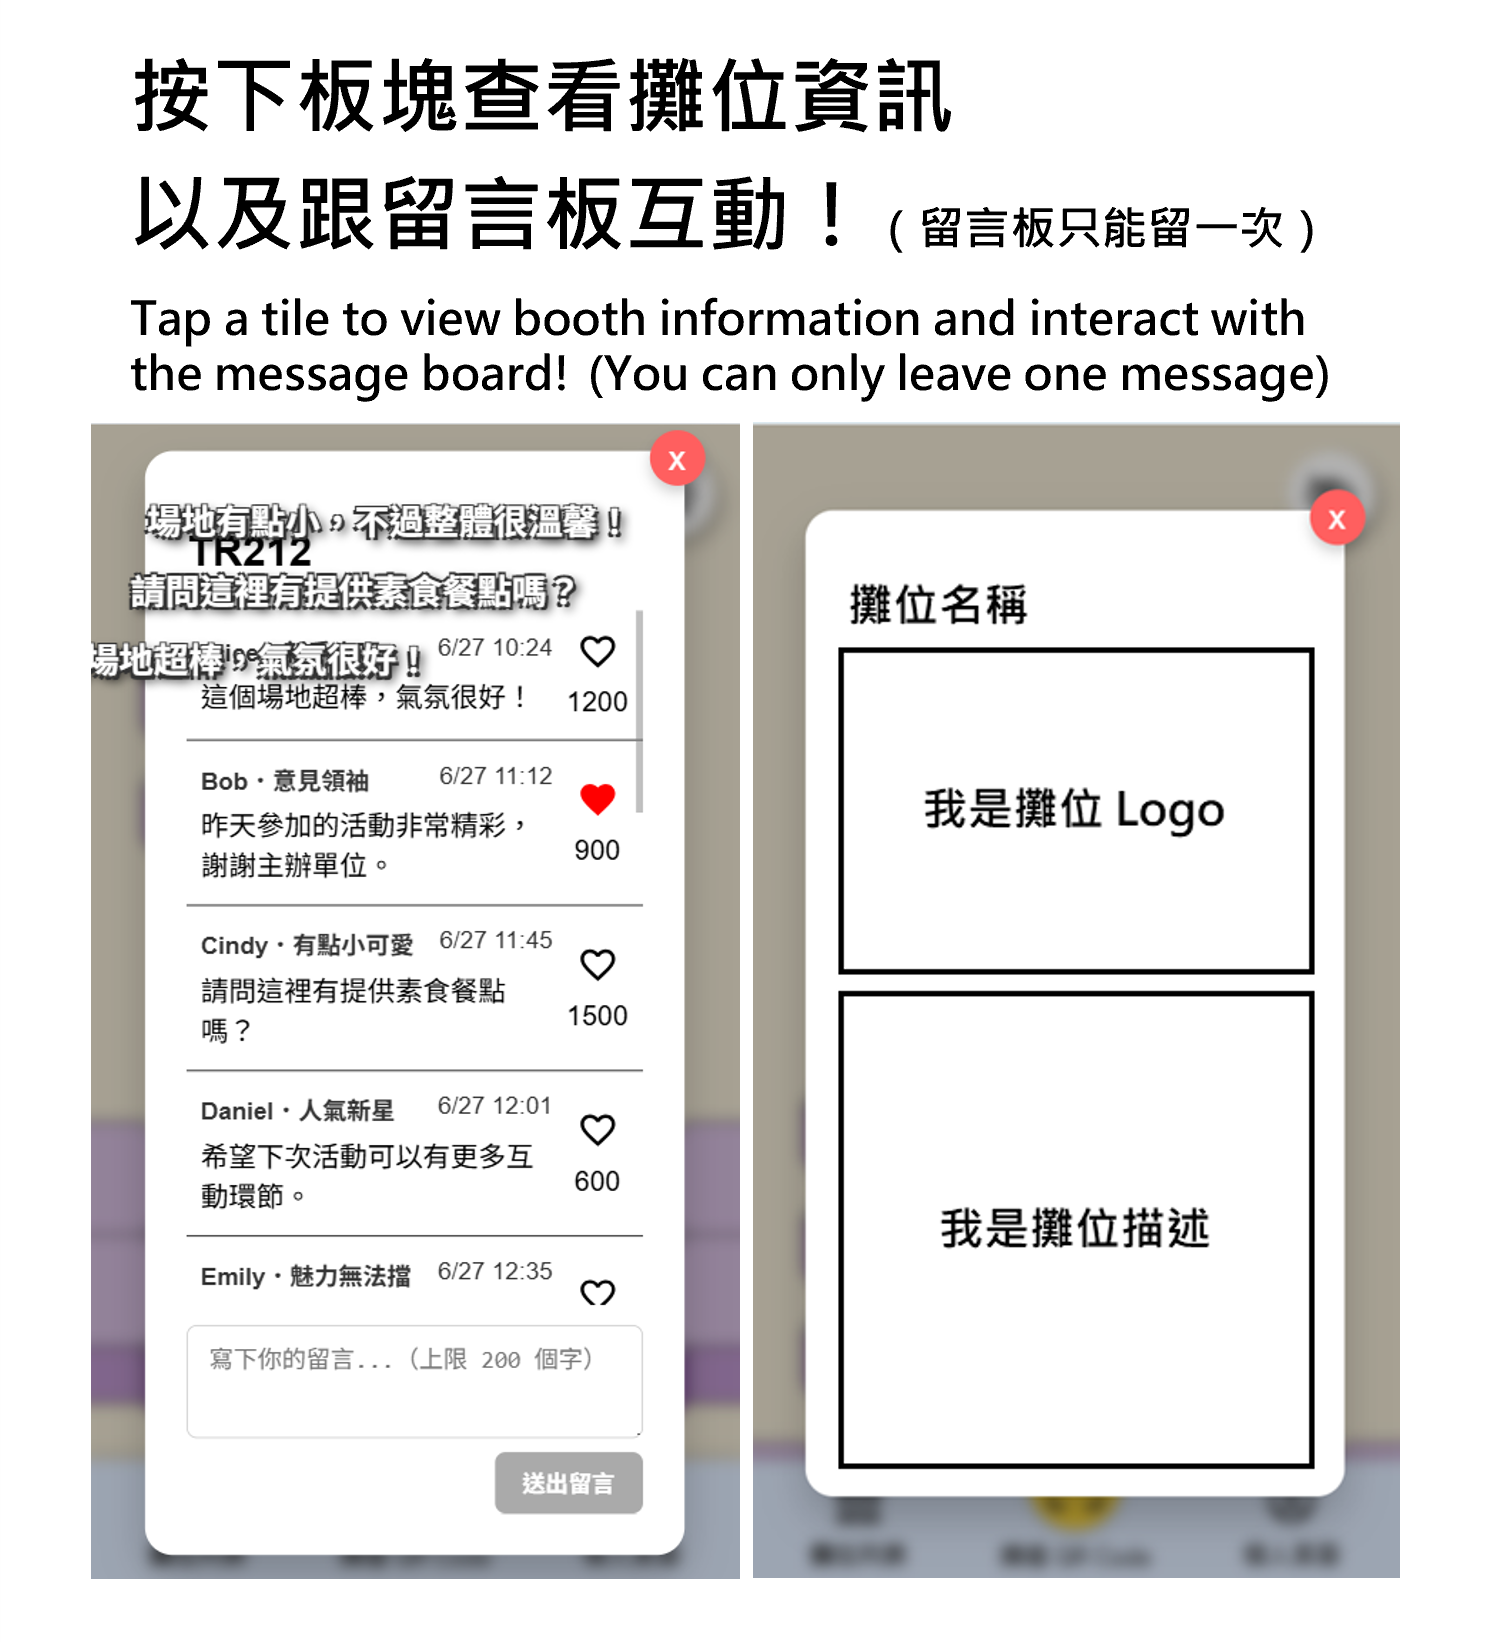
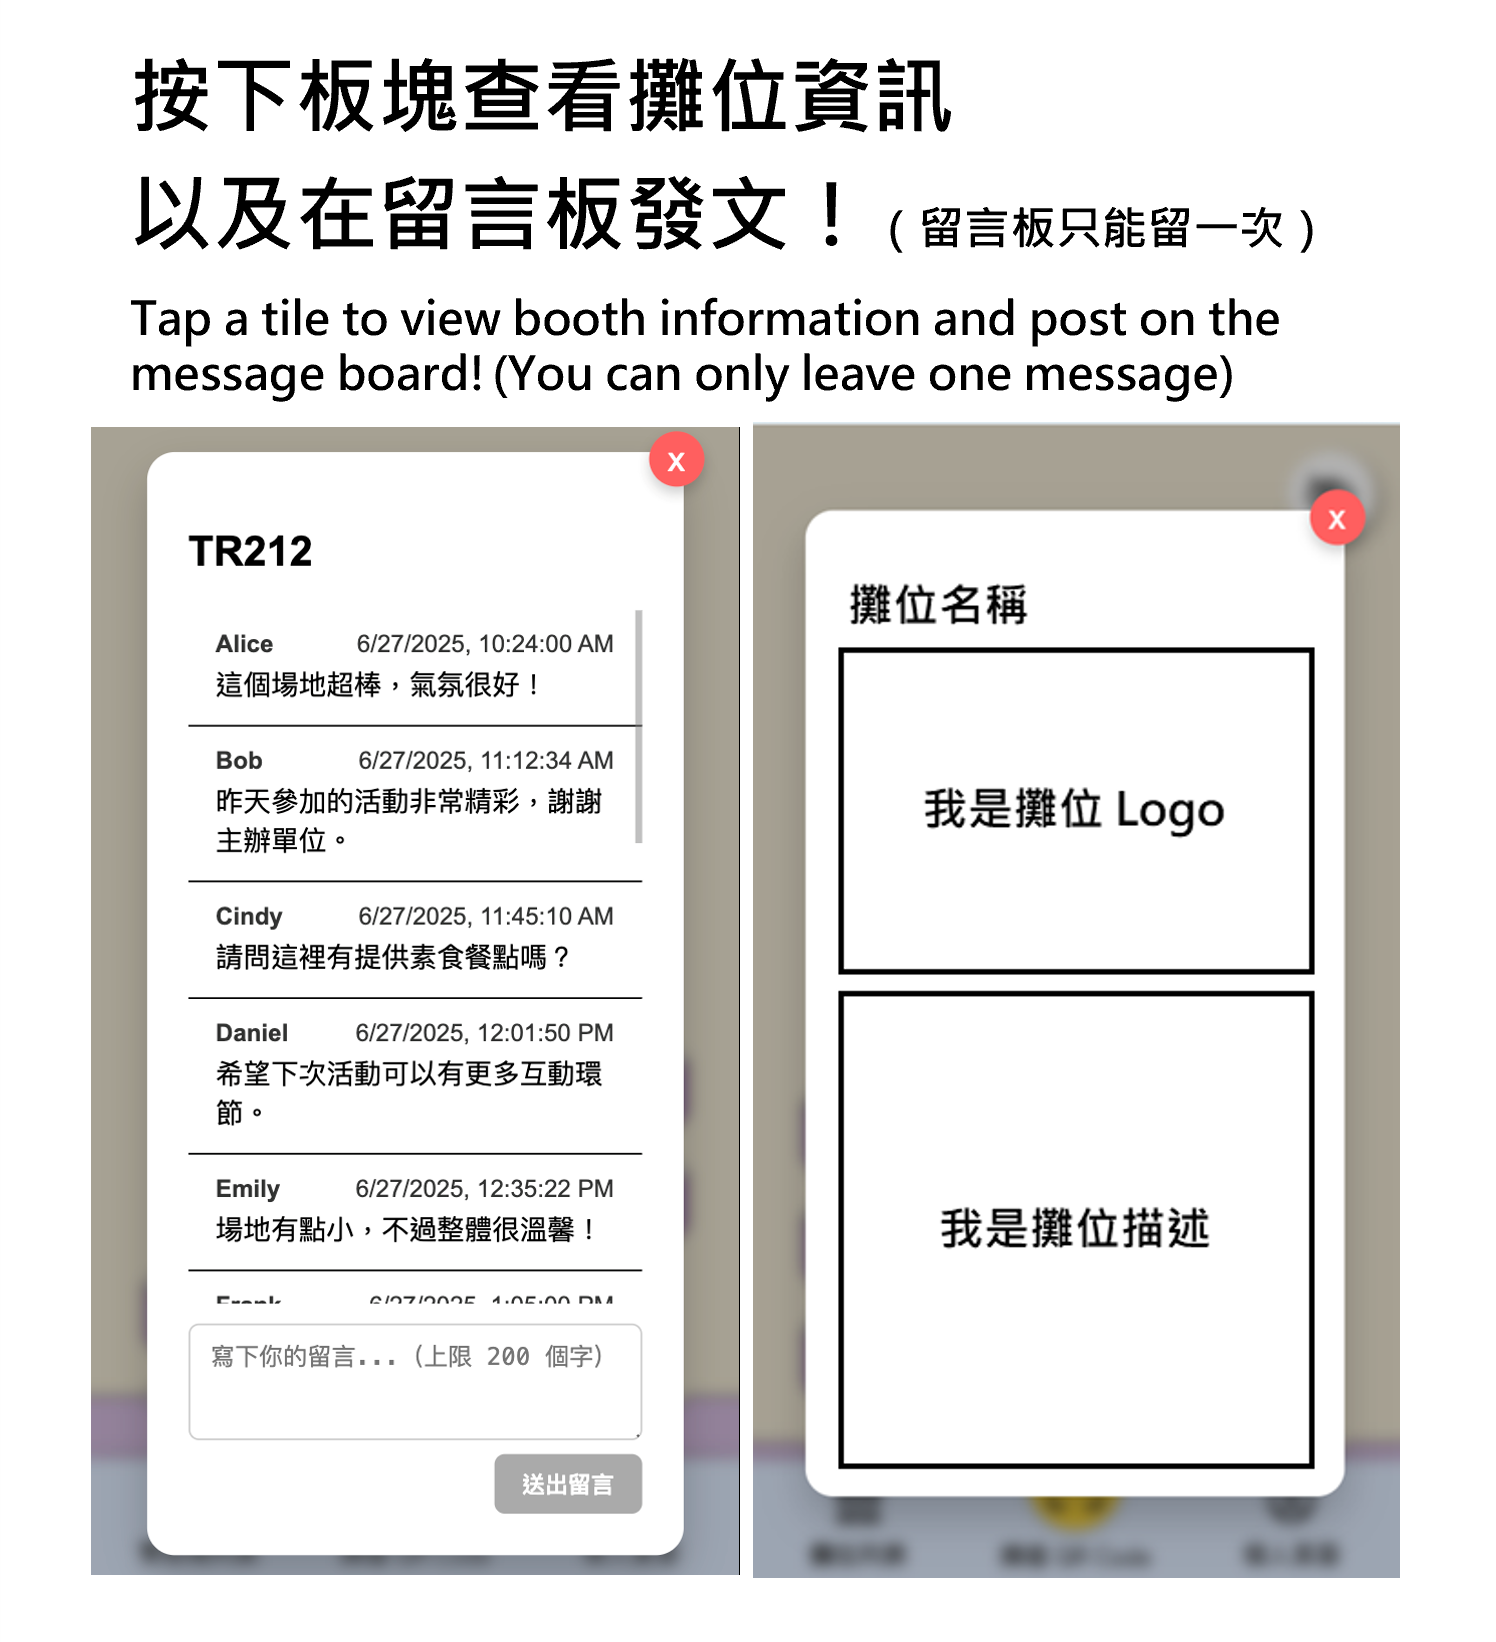
chore: update tutorial-2

diff --git a/src/components/PhaserGame.vue b/src/components/PhaserGame.vue
@@ -99,15 +99,15 @@ function markedIntro(intro: string) {
   return res.value
 }
 
-const topComments = computed(() => {
-  if (!Array.isArray(comments.value)) {
-    return []
-  }
-  return comments.value
-    .slice()
-    .sort((a: any, b: any) => b.likes - a.likes)
-    .slice(0, Math.min(comments.value.length, 3))
-})
+// const topComments = computed(() => {
+//   if (!Array.isArray(comments.value)) {
+//     return []
+//   }
+//   return comments.value
+//     .slice()
+//     .sort((a: any, b: any) => b.likes - a.likes)
+//     .slice(0, Math.min(comments.value.length, 3))
+// })
 
 const isButtonDisabled = computed(() => {
   return newMessage.value.trim() === ''
